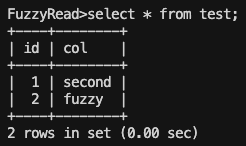
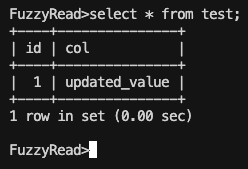
docs: 文章全体を作成

diff --git a/articles/07fcdbc0cce8b5.md b/articles/07fcdbc0cce8b5.md
@@ -17,15 +17,15 @@ published: false
 * テーブルB
     * バッチBにより、毎時00分にテーブルAのレコードを元にテーブルBのレコードを生成
 
-上記を踏まえて原因と想定されるのはおそらく**ダーティリード**だろうという結論になり、バッチの実行タイミングをズラすことで事象自体は解消
+上記を踏まえて原因と想定されるのはおそらく**ファントムリード**だろうという結論になり、バッチの実行タイミングをズラすことで事象自体は解消しました
 
-しかし、MySQLの分離レベルについての理解がふわっとしているためこれを機に記事にまとめておこうと思います
+個人的に、MySQLの分離レベルについての理解がふわっとしているためこれを機に記事にまとめておこうと思います
 
 ## 分離レベルとは
 
 ANSI(米国国家規格協会)と呼ばれる標準化組織が定義している
 
-MySQLの場合、分離レベルと対応する現象は以下
+ANSIが定義する分離レベルと対応する現象は以下
 
 | 分離レベル | ダーティリード | ファジーリード | ファントムリード |
 | ---- | ---- | ---- | ---- |
@@ -37,7 +37,7 @@ MySQLの場合、分離レベルと対応する現象は以下
 ## 分離レベルごとに起こりうる現象
 
 検証用テーブルも事前に作っておきます
-※MySQL8.x
+※MySQL8.xを使用します
 
 ```
 create table test(id int not null primary key, col varchar(20));
@@ -49,7 +49,9 @@ select * from test
 
 ### ダーティリード(Dirty Read)
 
-あるトランザクションがコミットされる前に、別のトランザクションからデータを読み取れてしまう現象のこと
+:::message alert
+**あるトランザクションがコミットされる前に、別のトランザクションからデータを読み取れてしまう現象のこと**
+:::
 
 まずはダーティリード用のトランザクションを準備する
 
@@ -80,9 +82,11 @@ DirtyRead> select * from test;
 
 ![alt text](</images/07fcdbc0cce8b5/dirty_lead.png>)
 
-Transactionでupdateした内容をまだコミットしていないのにも関わらず、DirtyReadのトランザクションからデータを読み取れてしまいました
+Transactionでupdateした内容をまだコミットしていないにも関わらず、DirtyReadのトランザクションからデータを読み取れてしまいました
 
+:::message
 このように**あるトランザクションで行ったコミット前の変更を、別のトランザクションで読み取れてしまう現象をダーティリード**と呼びます
+:::
 
 次の検証に移るのでTransaction側で一旦コミットしておきます
 
@@ -92,7 +96,9 @@ Transaction> commit;
 
 ### ファジーリード(Fuzzy Read)
 
-あるトランザクションが1回目に読み取ったデータを再度読み取ったときに、2回目の結果が初回読み取りとして扱われてしまう現象
+:::message alert
+**あるトランザクションが1回目に読み取ったデータを再度読み取ったときに、2回目の結果が初回読み取りとして扱われてしまう現象**
+:::
 
 ファジーリード用のトランザクションを準備する
 
@@ -110,16 +116,14 @@ FuzzyRead> select * from test;
 
 ![alt text](</images/07fcdbc0cce8b5/select_test_fuzzy_read.png>)
 
-この時点ではレコードが1件だけ読み取られています
-
-次に新しくシェルを追加して、別のトランザクションの中でレコードを挿入します
+次に新しくシェルを追加して、別のトランザクションの中でレコードを更新します
 
 ```
 prompt Transaction>
 
 Transaction> start transaction;
 
-Transaction> insert into test values(2, 'fuzzy');
+Transaction> update test set col='updated_value' where id = 1;
 
 Transaction> commit;
 ```
@@ -134,10 +138,114 @@ FuzzyRead> select * from test;
 
 同じトランザクションにも関わらず、1回目と2回目の読み取りで結果が異なっています
 
-このように**あるトランザクションが1回目に読み込んだデータを再度読み込んだときに、結果が変わってしまう現象をファジーリード**と呼びます
+:::message
+このように**あるトランザクションが1回目に読み込んだデータを再度読み込んだときに、2回目以降の結果が1回目となってしまう現象をファジーリード**と呼びます
+:::
 
 ### ファントムリード(Phantom Read)
 
-あるトランザクションを複数回に渡って読み取ったときに、最初にSELECTしたレコードが3行だったのに対して2回目にSELECTしたレコードが4行だったりと、データが読み取れたり読み取れなかったりする現象
+:::message alert
+**あるトランザクションを複数回に渡って読み取ったときに、最初にSELECTしたレコードが3行だったのに対して2回目にSELECTしたレコードが4行だったりと、データが読み取れたり読み取れなかったりする現象**
+:::
+
+ファントムリード用のトランザクションを準備する
+
+```
+prompt PhantomRead>
+
+// ファントムーリードを起こすため、分離レベルをリピータブルリードに設定する
+PhantomRead> set transaction isolation level repeatable read;
+
+PhantomRead> start transaction;
+
+// 1回目の読み取りを実行
+PhantomRead> select * from test;
+```
+
+![alt text](</images/07fcdbc0cce8b5/select_test_phantom_read.png>)
+
+この時点ではレコードが1件だけ読み取られています
+
+次に新しくシェルを追加して、別のトランザクションの中でレコードを挿入します
+
+```
+prompt Transaction>
+
+Transaction> start transaction;
+
+Transaction> insert into test values(2, 'phantom');
+
+Transaction> commit;
+```
+
+そして再度、先ほどと同様のファントムーリードのトランザクションでデータを読み取ります
+
+```
+// 2回目の読み取りを実行
+PhantomRead> select * from test;
+```
+
+![alt text](</images/07fcdbc0cce8b5/select_test_phantom_read2.png>)
+
+ここでファントムリードが起こり、先ほどinsertしたレコードが見える想定でしたが**select結果は変わりませんでした**
+
+実はこれ、MySQLのinnoDB型のテーブルが**MVCC**という仕組みで動作しているため、ファントムリードが起きないようになっているからです
+
+```
+// MySQLでファントムリードを再現するためリードコミッテッドに設定する
+PhantomRead> set transaction isolation level read committed;
+
+PhantomRead> start transaction;
+
+// 1回目の読み取りを実行
+PhantomRead> select * from test;
+```
+
+![alt text](</images/07fcdbc0cce8b5/select_test_phantom_read3.png>)
+
+```
+Transaction> start transaction;
+
+Transaction> insert into test values(3, 'phantom lead');
+
+Transaction> commit;
+```
+
+```
+2回目の読み取りを実行
+PhantomRead> select * from test;
+```
+
+![alt text](</images/07fcdbc0cce8b5/select_test_phantom_read4.png>)
+
+MySQLの分離レベルをリードコミッテッドに設定するとファントムリードを再現しました
+
+同じトランザクションにも関わらず、1回目と2回目の読み取りで結果が異なり新しいレコードが表示されています
+
+つまり、MySQLにおける分離レベルと現象の対応表は以下が正しいということになります
+
+| 分離レベル | ダーティリード | ファジーリード | ファントムリード |
+| ---- | ---- | ---- | ---- |
+| リードアンコミッテッド | ◯ | ◯ | ◯ |
+| リードコミッテッド | × | ◯ | ◯ |
+| リピータブルリード | × | × | × | // リピータブルリードでもファントムリードは起きない
+| シリアライザブル | × | × | × |
+
+
+:::message
+このように**あるトランザクションで複数回読み取りを行ったときに、データが現れたり(INSERT)消えたり(DELETE)してしまう現象をファントムリード**と呼びます
+:::
 
 ## おわりに
+
+分離レベルと現象について記事にまとめてきましたが、ひとつ新たな疑問が浮かびました
+
+冒頭で記載した「とある日の業務中のこと、毎時1回動作するバッチにより生成されるテーブルのレコード件数が、**正しいときもあれば2倍になるときもある**という現象に出くわしました」について、おそらくファントムリードだろうとの結論になっていました
+
+そこで改めてMySQLの分離レベルを確認してみたのですが、**REPEATABLE READ**でした
+
+この記事での検証でもうお分かりかと思いますが**MySQLの分離レベルがREPEATABLE READ = ファントムリードは発生しない**ということになります
+
+なので今回の現象はDBの分離レベルの挙動そのものというよりは、**並行して動作するバッチのロジックに起因する問題**である可能性が高そうです
+
+同じテーブルを参照するバッチ処理の実行タイミングを同時刻に設定することは、データ競合やロックによる処理遅延を引き起こす可能性があるので、。システム全体の安定性と効率性を考慮し、バッチ処理の実行タイミングを適切に分散させるよう
